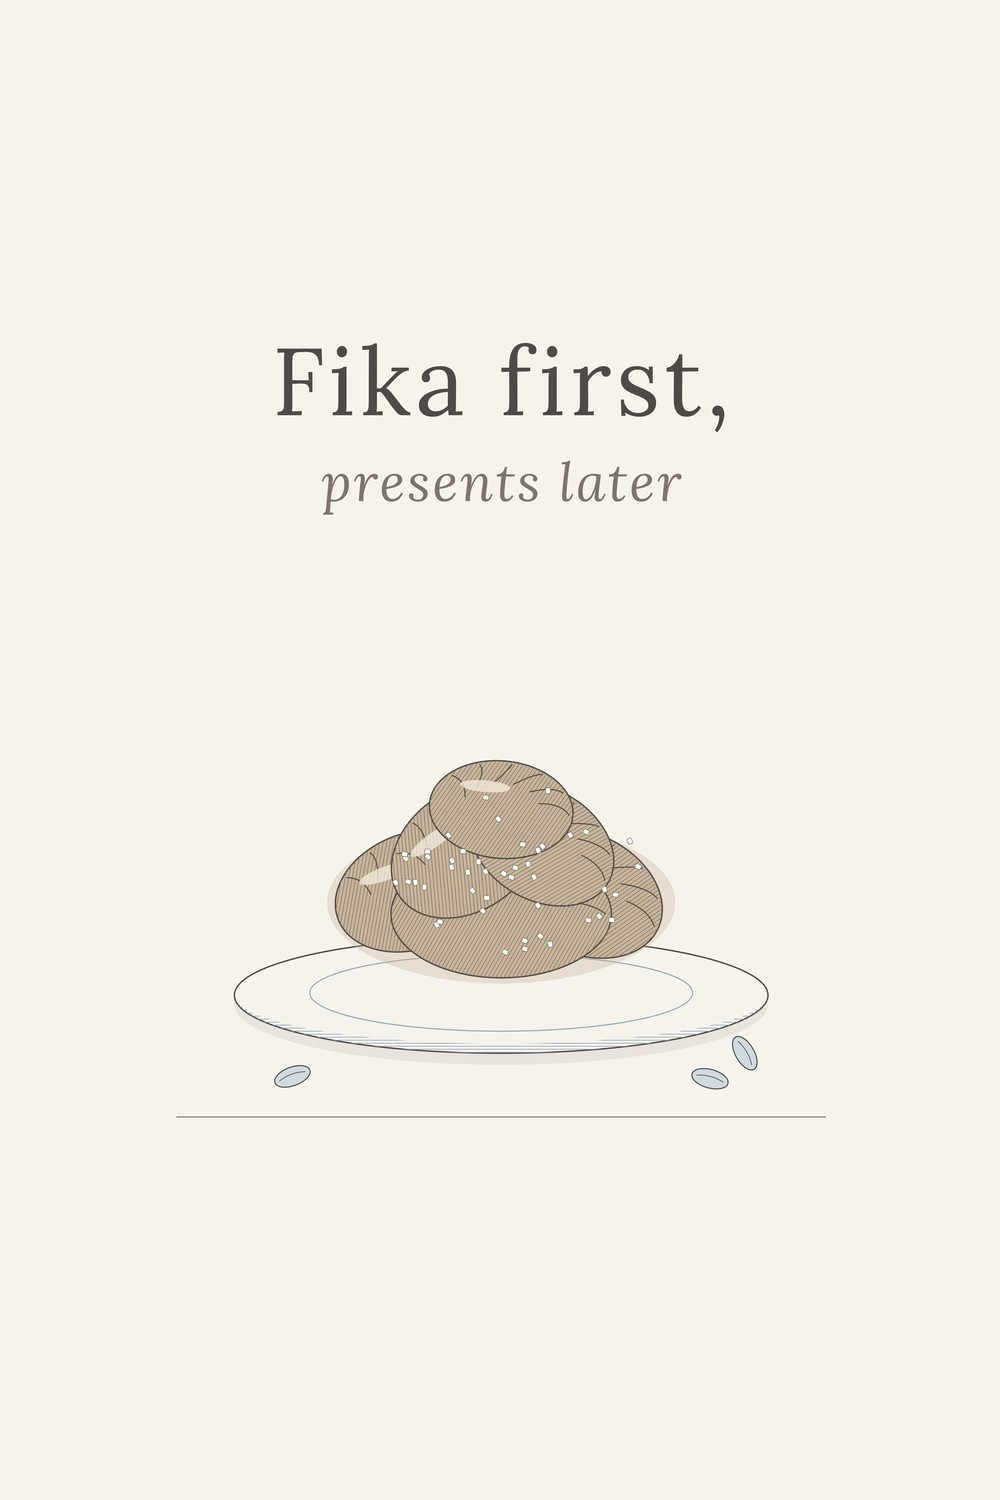
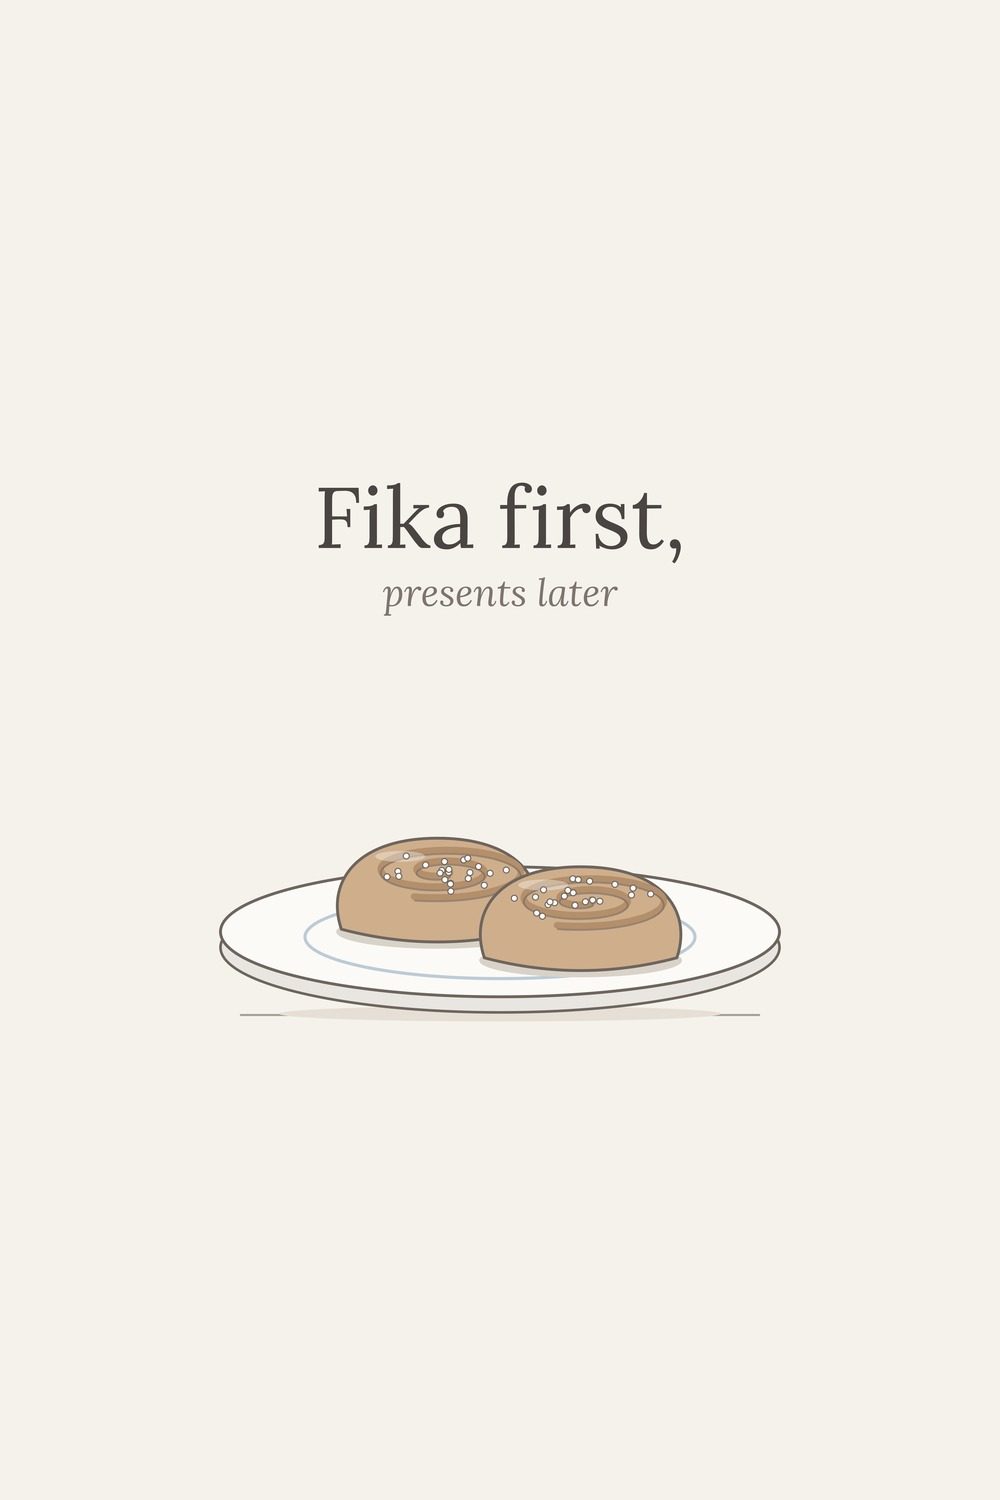
Glögg & Fika: omritade motiv (bullar på tallriken, kanel+stjärnanis i glöggen), nya pins v2, etsy replace-media, QA-regel
Claude-Session: https://claude.ai/code/session_01GMbXm2wNWuQvwgjLDYxy21

diff --git a/tools/art_glogg_fika.py b/tools/art_glogg_fika.py
@@ -1,0 +1,110 @@
+import math, random, subprocess, sys
+BG="#f5f2ec"; INK="#4a4542"; LINE="#6e655e"; SUB="#7d746d"
+BUN="#cfae8c"; BUN_D="#b48f6c"; MIST="#bccbd6"; WINE="#8e5f57"; STICK="#c4a07c"
+
+def bun(cx, base, w, h, seed, cid):
+    x0,x1=cx-w/2,cx+w/2; top=base-h
+    d=(f"M{x0+6},{base} C{x0-6},{base-h*0.5} {cx-w*0.40},{top} {cx},{top} "
+       f"C{cx+w*0.40},{top} {x1+6},{base-h*0.5} {x1-6},{base} Q{cx},{base+h*0.28} {x0+6},{base} Z")
+    s=[f'<clipPath id="{cid}"><path d="{d}"/></clipPath>',
+       f'<path d="{d}" fill="{BUN}" stroke="{LINE}" stroke-width="2.2"/>']
+    # baked swirl seen from slightly above
+    sx,sy=cx+w*0.02, top+h*0.36
+    pts=[]
+    for i in range(240):
+        t=i/239; a=t*2.3*2*math.pi; r=5+t*w*0.40
+        pts.append((sx+r*math.cos(a), sy+r*0.30*math.sin(a)))
+    p="M"+" L".join(f"{x:.1f},{y:.1f}" for x,y in pts)
+    s.append(f'<g clip-path="url(#{cid})"><path d="{p}" fill="none" stroke="{BUN_D}" stroke-width="5" stroke-linecap="round"/>'
+             f'<path d="{p}" fill="none" stroke="{LINE}" stroke-width="1.4" transform="translate(0,3)" opacity="0.55"/></g>')
+    # soft highlight
+    s.append(f'<ellipse cx="{cx-w*0.18}" cy="{top+h*0.2}" rx="{w*0.12}" ry="{h*0.06}" fill="#fff" opacity="0.35" clip-path="url(#{cid})"/>')
+    # pearl sugar only on the top surface
+    rnd=random.Random(seed)
+    for _ in range(22):
+        a=rnd.uniform(0,2*math.pi); r=rnd.uniform(0,1)**0.6
+        x=sx+r*w*0.34*math.cos(a); y=sy+r*w*0.34*0.30*math.sin(a)
+        s.append(f'<circle cx="{x:.1f}" cy="{y:.1f}" r="2.3" fill="#fbfaf7" stroke="{LINE}" stroke-width="0.8"/>')
+    return "\n".join(s)
+
+def fika():
+    s=[]
+    cx=500; py=600  # plate surface centre
+    s.append(f'<line x1="300" y1="664" x2="700" y2="664" stroke="{LINE}" stroke-width="1.6" opacity="0.6"/>')
+    s.append(f'<ellipse cx="{cx}" cy="663" rx="170" ry="6" fill="#e6dfd6"/>')
+    # plate: underside, rim, well
+    s.append(f'<ellipse cx="{cx}" cy="{py+12}" rx="215" ry="50" fill="#e9e6e1" stroke="{LINE}" stroke-width="2"/>')
+    s.append(f'<ellipse cx="{cx}" cy="{py}" rx="215" ry="50" fill="#fbfaf7" stroke="{LINE}" stroke-width="2.2"/>')
+    s.append(f'<ellipse cx="{cx}" cy="{py+4}" rx="150" ry="32" fill="none" stroke="{MIST}" stroke-width="2.4"/>')
+    # two cinnamon buns resting in the plate well (bases inside the well)
+    s.append(f'<ellipse cx="452" cy="600" rx="78" ry="13" fill="#d9d2c8"/>')
+    s.append(bun(452, 598, 160, 70, 1, "b1"))
+    s.append(f'<ellipse cx="562" cy="622" rx="78" ry="13" fill="#d9d2c8"/>')
+    s.append(bun(562, 620, 160, 70, 2, "b2"))
+    return "\n".join(s)
+
+def star(cx, cy, r, sy):
+    pts=[]
+    for i in range(16):
+        a=i*math.pi/8 - math.pi/2; rr=r if i%2==0 else r*0.42
+        pts.append(f"{cx+rr*math.cos(a):.1f},{cy+rr*sy*math.sin(a):.1f}")
+    seeds="".join(f'<ellipse cx="{cx+r*0.62*math.cos(i*math.pi/4-math.pi/2):.1f}" cy="{cy+r*0.62*sy*math.sin(i*math.pi/4-math.pi/2):.1f}" rx="2.6" ry="{2.6*sy+0.6:.1f}" fill="{LINE}"/>' for i in range(8))
+    return f'<polygon points="{" ".join(pts)}" fill="{STICK}" stroke="{LINE}" stroke-width="1.4"/>{seeds}<circle cx="{cx}" cy="{cy}" r="2.4" fill="{LINE}"/>'
+
+def glogg():
+    s=[]; cx=500
+    top=505; bot=650; rx=84; ry=16
+    s.append(f'<line x1="300" y1="688" x2="700" y2="688" stroke="{LINE}" stroke-width="1.6" opacity="0.6"/>')
+    # saucer
+    s.append(f'<ellipse cx="{cx}" cy="{bot+12}" rx="150" ry="24" fill="#e9e6e1" stroke="{LINE}" stroke-width="2"/>')
+    s.append(f'<ellipse cx="{cx}" cy="{bot+4}" rx="150" ry="24" fill="#fbfaf7" stroke="{LINE}" stroke-width="2.2"/>')
+    s.append(f'<ellipse cx="{cx}" cy="{bot+4}" rx="96" ry="14" fill="none" stroke="{MIST}" stroke-width="2"/>')
+    # handle
+    s.append(f'<path d="M{cx+rx-4},{top+28} C{cx+rx+56},{top+20} {cx+rx+60},{top+100} {cx+rx-6},{top+108}" fill="none" stroke="{LINE}" stroke-width="13" stroke-linecap="round"/>')
+    s.append(f'<path d="M{cx+rx-4},{top+28} C{cx+rx+56},{top+20} {cx+rx+60},{top+100} {cx+rx-6},{top+108}" fill="none" stroke="#fbfaf7" stroke-width="8.5" stroke-linecap="round"/>')
+    # body
+    body=(f"M{cx-rx},{top} L{cx-rx+8},{bot-6} Q{cx},{bot+ry} {cx+rx-8},{bot-6} L{cx+rx},{top} Z")
+    s.append(f'<path d="{body}" fill="#fbfaf7" stroke="{LINE}" stroke-width="2.2"/>')
+    # nordic band following the curve
+    b1,b2=top+56,top+76
+    s.append(f'<path d="M{cx-rx+3.5},{b1} Q{cx},{b1+ry*1.6} {cx+rx-3.5},{b1} L{cx+rx-4.5},{b2} Q{cx},{b2+ry*1.6} {cx-rx+4.5},{b2} Z" fill="{MIST}" opacity="0.75"/>')
+    for i in range(9):
+        t=(i+0.5)/9; x=cx-rx+8+t*(2*rx-16); yc=b1+11+ry*1.6*2*t*(1-t)*0.95
+        s.append(f'<path d="M{x-5},{yc-4} L{x},{yc+4} L{x+5},{yc-4}" fill="none" stroke="#f7f6f2" stroke-width="1.8"/>')
+    # rim and glögg surface
+    s.append(f'<ellipse cx="{cx}" cy="{top}" rx="{rx}" ry="{ry}" fill="#fbfaf7" stroke="{LINE}" stroke-width="2.2"/>')
+    s.append(f'<ellipse cx="{cx}" cy="{top+3}" rx="{rx-9}" ry="{ry-5}" fill="{WINE}"/>')
+    # star anise floating on the glögg
+    s.append(star(cx-30, top+3, 22, 0.38))
+    # cinnamon stick standing in the glögg, leaning on the back rim
+    sx0,sy0=cx+22,top+4; sx1,sy1=cx+50,top-78
+    ang=math.atan2(sy1-sy0,sx1-sx0); nx,ny=-math.sin(ang)*7,math.cos(ang)*7
+    s.append(f'<polygon points="{sx0+nx},{sy0+ny} {sx1+nx},{sy1+ny} {sx1-nx},{sy1-ny} {sx0-nx},{sy0-ny}" fill="{STICK}" stroke="{LINE}" stroke-width="1.6"/>')
+    s.append(f'<ellipse cx="{sx1}" cy="{sy1}" rx="7.4" ry="4" transform="rotate({math.degrees(ang)+90} {sx1} {sy1})" fill="#d4b796" stroke="{LINE}" stroke-width="1.4"/>')
+    s.append(f'<line x1="{sx0+nx*0.2}" y1="{sy0+ny*0.2}" x2="{sx1+nx*0.2}" y2="{sy1+ny*0.2}" stroke="{LINE}" stroke-width="0.9" opacity="0.6"/>')
+    # liquid line in front of the stick (stick goes into the drink)
+    s.append(f'<path d="M{cx-rx+9},{top+3} A{rx-9},{ry-5} 0 0 0 {cx+rx-9},{top+3}" fill="none" stroke="{WINE}" stroke-width="3"/>')
+    s.append(f'<path d="M{cx-rx},{top} A{rx},{ry} 0 0 0 {cx+rx},{top}" fill="none" stroke="{LINE}" stroke-width="2.2"/>')
+    # steam
+    for dx in (-30,0,30):
+        s.append(f'<path d="M{cx+dx-14},{top-30} c-8,-12 8,-20 0,-32 c-8,-12 8,-20 0,-32" fill="none" stroke="{MIST}" stroke-width="2.6" stroke-linecap="round"/>')
+    return "\n".join(s)
+
+DESIGNS={"Glogg":("Glögg","in progress",glogg,1.36,688,760),"Fika":("Fika first,","presents later",fika,1.3,664,735)}
+
+def svg(name, W, H):
+    t1,t2,fn,sc,base,to=DESIGNS[name]
+    h=1000*H/W
+    oy=h*0.5-470  # block: titles ~ y 230-300, art ~ y 330-672
+    return f'''<svg xmlns="http://www.w3.org/2000/svg" viewBox="0 0 1000 {h:.2f}" width="{W}" height="{H}">
+<rect width="1000" height="{h:.2f}" fill="{BG}"/>
+<g transform="translate(0,{oy:.2f})">
+<text x="500" y="268" text-anchor="middle" font-family="Lora" font-size="86" fill="{INK}">{t1}</text>
+<text x="500" y="326" text-anchor="middle" font-family="Lora" font-style="italic" font-size="38" fill="{SUB}">{t2}</text>
+<g transform="translate(500,{to}) scale({sc}) translate(-500,-{base})">{fn()}</g>
+</g></svg>'''
+
+if __name__=="__main__":
+    name,W,H,out=sys.argv[1],int(sys.argv[2]),int(sys.argv[3]),sys.argv[4]
+    open(out+".svg","w").write(svg(name,W,H))
+    subprocess.run(["rsvg-convert","-w",str(W),"-h",str(H),"-o",out+".png",out+".svg"],check=True)

diff --git a/tools/etsy.py b/tools/etsy.py
@@ -185,6 +185,37 @@ def cmd_publish(a):
     print(json.dumps({"listing_id": lid, "url": f"https://www.etsy.com/listing/{lid}", "state": state, "slug": pkg.get("slug")}))
 
 
+def cmd_replace_media(a):
+    """Swap images + digital files (and title/description/tags) of an existing listing, from listing.json.
+    New images are uploaded before old ones are deleted, files are swapped one by one (Etsy max 5)."""
+    pkg = json.load(open(a.package))
+    sid = shop_id(); lid = pkg["listing_id"]
+    old_imgs = ok(call("GET", f"/listings/{lid}/images"), "list images").get("results", [])
+    for i, img in enumerate(pkg.get("images", [])[:10], 1):
+        with open(img, "rb") as f:
+            ok(call("POST", f"/shops/{sid}/listings/{lid}/images", files={"image": f}, data={"rank": i}), f"image {img}")
+    for im in old_imgs:
+        r = call("DELETE", f"/shops/{sid}/listings/{lid}/images/{im['listing_image_id']}")
+        if r.status_code >= 300: print("warn: delete image", r.status_code, r.text[:200])
+    old_files = ok(call("GET", f"/shops/{sid}/listings/{lid}/files"), "list files").get("results", [])
+    news = pkg.get("files", [])[:5]
+    for i, fp in enumerate(news, 1):
+        if old_files:
+            of = old_files.pop(0)
+            ok(call("DELETE", f"/shops/{sid}/listings/{lid}/files/{of['listing_file_id']}"), "delete file")
+        with open(fp, "rb") as f:
+            ok(call("POST", f"/shops/{sid}/listings/{lid}/files", files={"file": f},
+                    data={"name": os.path.basename(fp), "rank": i}), f"file {fp}")
+    for of in old_files:
+        call("DELETE", f"/shops/{sid}/listings/{lid}/files/{of['listing_file_id']}")
+    tags = [t[:20] for t in pkg.get("tags", [])][:13]
+    data = [("title", pkg["title"][:140]), ("description", pkg["description"])] + [("tags[]", t) for t in tags]
+    ok(call("PATCH", f"/shops/{sid}/listings/{lid}", data=data), "update text")
+    imgs = ok(call("GET", f"/listings/{lid}/images"), "list images").get("results", [])
+    fls = ok(call("GET", f"/shops/{sid}/listings/{lid}/files"), "list files").get("results", [])
+    print(json.dumps({"listing_id": lid, "images": len(imgs), "files": [x.get("filename") for x in fls]}))
+
+
 if __name__ == "__main__":
     ap = argparse.ArgumentParser()
     ap.add_argument("cmd")
@@ -192,4 +223,4 @@ if __name__ == "__main__":
     ap.add_argument("--package"); ap.add_argument("--draft", action="store_true")
     a = ap.parse_args()
     {"auth-url": cmd_auth_url, "exchange": cmd_exchange, "ping": cmd_ping, "taxonomy": cmd_taxonomy,
-     "publish": cmd_publish}[a.cmd.replace("_", "-")](a)
+     "publish": cmd_publish, "replace-media": cmd_replace_media}[a.cmd.replace("_", "-")](a)

diff --git a/tools/build_glogg_fika_media.py b/tools/build_glogg_fika_media.py
@@ -1,0 +1,30 @@
+from PIL import Image, ImageDraw, ImageFont
+import zipfile, os, subprocess
+W="/home/claude/work/fika/"; P="/home/claude/palenorth-secrets/products/b-glogg-and-fika/"
+specs=[("1_Ratio_2x3","Ratio_2x3_7200x10800px"),("2_Ratio_3x4","Ratio_3x4_5400x7200px"),("3_Ratio_4x5","Ratio_4x5_4800x6000px"),("4_Size_11x14","Size_11x14_3300x4200px"),("5_ISO_A_Sizes","ISO_A_Sizes_7016x9933px")]
+os.makedirs(W+"zips",exist_ok=True)
+for zname,suf in specs:
+    zp=W+f"zips/Glogg_and_Fika_{zname}.zip"
+    with zipfile.ZipFile(zp,"w",zipfile.ZIP_DEFLATED) as z:
+        for n in ("Glogg","Fika"):
+            jp=W+f"Glogg_and_Fika_{n}_{suf}_300dpi.jpg"
+            Image.open(W+f"out_{n}_{suf}.png").convert("RGB").save(jp,quality=92,dpi=(300,300)); z.write(jp,os.path.basename(jp)); os.remove(jp)
+for n,slug in (("Glogg","glogg"),("Fika","fika")):
+    Image.open(W+f"out_{n}_Ratio_2x3_7200x10800px.png").convert("RGB").resize((1000,1500),Image.LANCZOS).save(f"/home/claude/palenorth-studio/art-previews/b-glogg-and-fika-{slug}.jpg",quality=92)
+im=Image.open(P+"03_what_you_get.jpg").convert("RGB")
+for n,x0 in (("Glogg",410),("Fika",1030)):
+    im.paste(Image.open(W+f"out_{n}_Ratio_2x3_7200x10800px.png").convert("RGB").resize((560,840),Image.LANCZOS),(x0,435))
+im.save(W+"03_what_you_get.jpg",quality=92)
+im=Image.open(P+"04_detail.jpg").convert("RGB"); bg=im.getpixel((50,50))
+g=Image.open(W+"out_Glogg_Ratio_2x3_7200x10800px.png").convert("RGB")
+im.paste(g.crop((1800,4560,5400,8160)).resize((1500,1500),Image.LANCZOS),(250,191))
+d=ImageDraw.Draw(im); d.rectangle([150,1700,1850,1900],fill=bg)
+f=ImageFont.truetype("/home/claude/palenorth-studio/fonts/Lora-Italic-Variable.ttf",38)
+t="Clean line work · close-up of the 24x36 in file"; w=d.textlength(t,font=f)
+d.text(((2000-w)/2,1752),t,font=f,fill=(90,84,80)); im.save(W+"04_detail.jpg",quality=92)
+for room,n,out in (("r08-12486417.jpg","Glogg","01_cover_room.jpg"),("r09-5978718.jpg","Fika","02_second_room.jpg")):
+    subprocess.run(["python3","/home/claude/palenorth-studio/tools/compose.py","--room",room,"--art",W+f"out_{n}_Ratio_2x3_7200x10800px.png","--out",W+out,"--etsy"],check=True)
+ims=[Image.open(W+f).resize((500,500)) for f in ('01_cover_room.jpg','02_second_room.jpg','03_what_you_get.jpg','04_detail.jpg')]
+s=Image.new('RGB',(1000,1000))
+for i,m in enumerate(ims): s.paste(m,((i%2)*500,(i//2)*500))
+s.save(W+'review.jpg')

diff --git a/README.md b/README.md
@@ -26,3 +26,12 @@ Pinterest är en sökmotor. Det är sökorden som gör att folk hittar pinsen, i
 
 ## Ägarens regel: ingen text på bilderna (2026-11-10)
 Pins är rena, eleganta rumsbilder. Ingen titel eller undertext bakas in i bilden – sökorden står bara i pin-titeln och beskrivningen.
+
+## Kvalitetskontroll av motiv (obligatoriskt, ägarens krav 2026-11-11)
+Innan en produkt publiceras eller pinnas: öppna varje motiv i full storlek och kontrollera att det är fysiskt logiskt.
+- Saker ligger PÅ det de ska ligga på (bullar på tallriken, kopp på fatet), inget svävar.
+- Det som hör till en dryck är I drycken (kanelstång, stjärnanis), inget löst strött runt omkring.
+- Inga konstiga linjer, glapp, dubbla konturer eller halvfärdiga skuggor.
+- Text krockar inte med bilden, motivet är tillräckligt stort i ramen.
+Hittar du fel: rätta och rendera om innan du går vidare. Hellre en produkt färre än en som ser fel ut.
+Glögg & Fika ritades om 2026-11-11 (källa: tools/art_glogg_fika.py).
